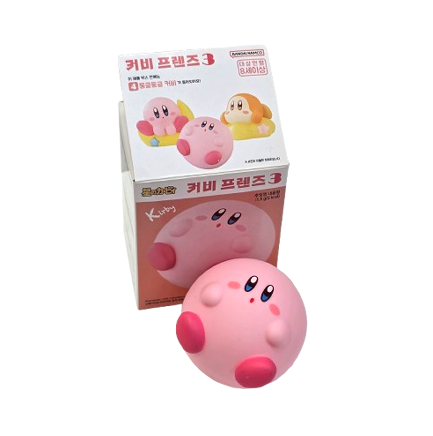
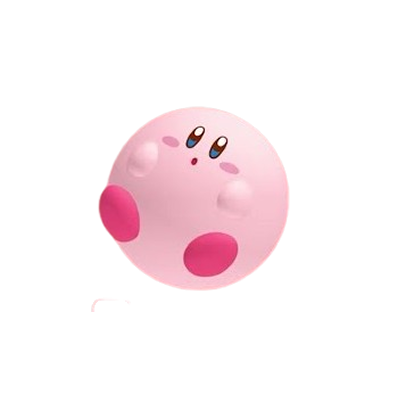
이미지 추가 작업 v5

Changed region(s): [[0.24, 0.09, 0.72, 0.9], [0.21, 0.75, 0.24, 0.78]]

diff --git a/src/data/products.js b/src/data/products.js
@@ -294,7 +294,7 @@ const products = [
   {
     id: 25,
     name: "뱅드림 하로하피 미셸 아크릴 키링",
-    price: 4000,
+    price: 3000,
     character: "뱅드림",
     category: "키링",
     seller: "서현",
@@ -303,18 +303,19 @@ const products = [
   },
   {
     id: 26,
-    name: "커비 피규어",
+    name: "커비프렌즈 3 둥글둥글커비 피규어",
     price: 1500,
     character: "기타",
     category: "피규어",
     seller: "서현",
     description: "",
+    imageCount: 2,
     image: null,
   },
   {
     id: 27,
     name: "미쿠 파티온데스크 피규어",
-    price: 5000,
+    price: 4000,
     character: "기타",
     category: "피규어",
     seller: "서현",
@@ -881,12 +882,13 @@ const products = [
   },
   {
     id: 83,
-    name: "어버블 크러쉬 A6 다이어리 전용속지 5장",
+    name: "어버블 크러쉬 A6전용속지 5장 (3종류)",
     price: 1000,
     character: "기타",
     category: "다꾸",
     seller: "시현",
     description: "",
+    imageCount: 3,
     image: null,
   },
   {
